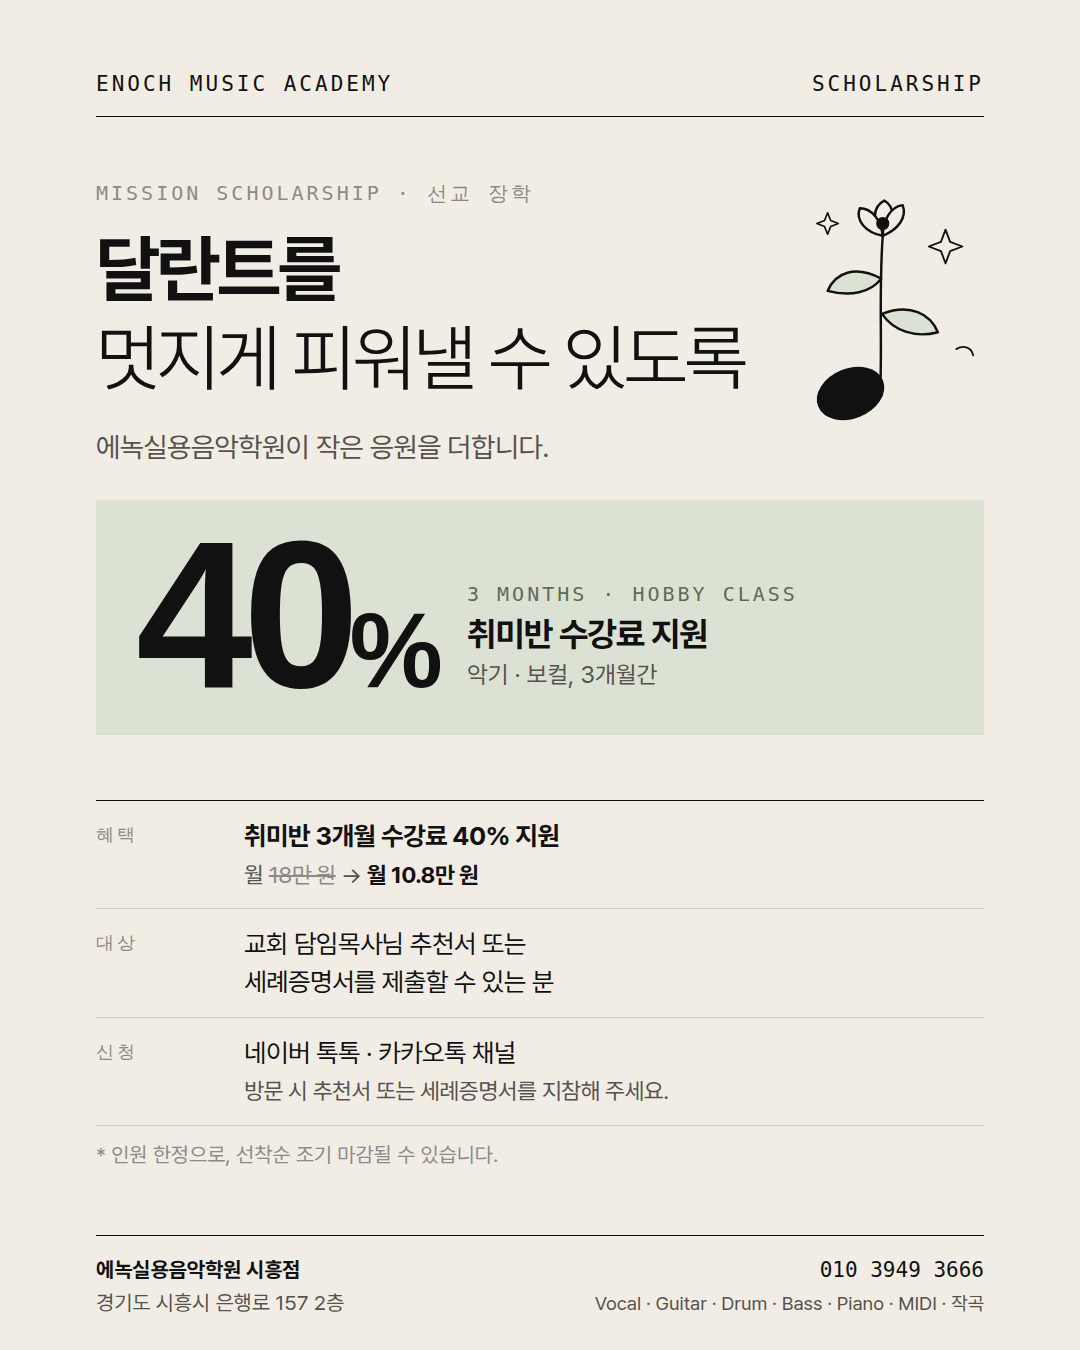
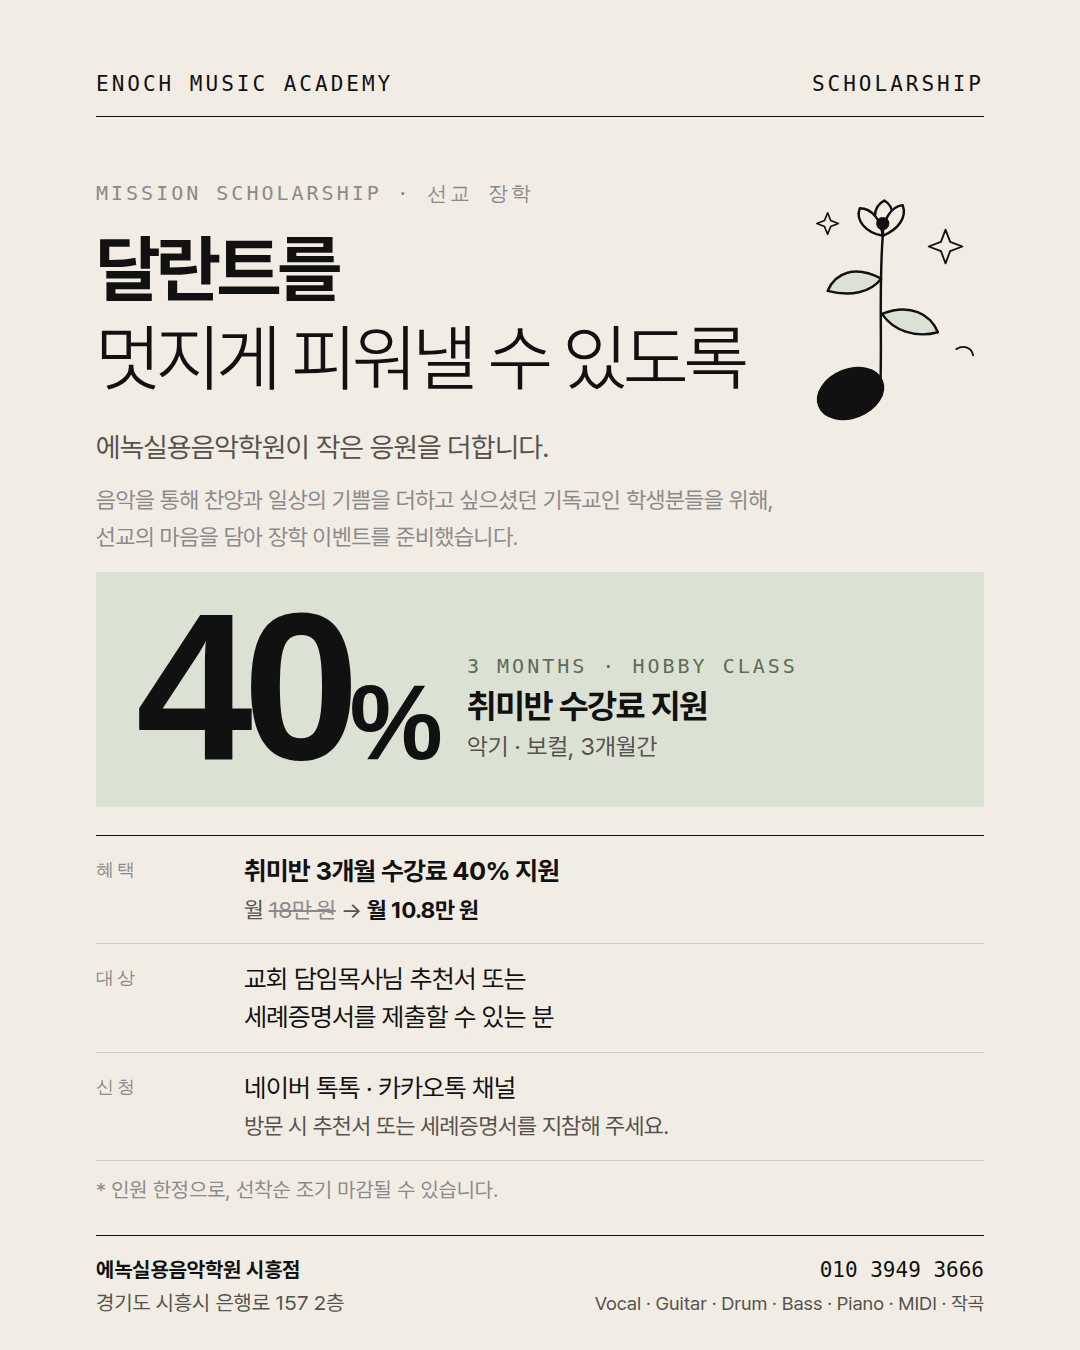
선교 장학 포스터: 선교 취지 문장 추가 (카카오톡·피드·스토리)
Claude-Session: https://claude.ai/code/session_01HGbZvgMeYrbU7mY8bwfjyb

diff --git a/output/이벤트_선교장학/poster.html b/output/이벤트_선교장학/poster.html
@@ -16,6 +16,7 @@
 <div class="a k" style="top:180px">Mission Scholarship · 선교 장학</div>
 <div class="a" style="top:225px;font-size:74px;font-weight:700;letter-spacing:-3.4px;line-height:1.2">달란트를<br><span style="font-weight:300">멋지게 피워낼 수 있도록</span></div>
 <div class="a" style="top:430px;font-size:28px;color:#55524D;letter-spacing:-.5px">에녹실용음악학원이 작은 응원을 더합니다.</div>
+<div class="a" style="top:482px;font-size:23px;line-height:1.6;color:#8A8A8A;letter-spacing:-.4px">음악을 통해 찬양과 일상의 기쁨을 더하고 싶으셨던 기독교인 학생분들을 위해,<br>선교의 마음을 담아 장학 이벤트를 준비했습니다.</div>
 <div style="position:absolute;right:70px;top:150px"><svg width="230" height="291" viewBox="0 0 300 380" fill="none" stroke="#111" stroke-width="3.2" stroke-linecap="round" stroke-linejoin="round">
 <ellipse cx="92" cy="318" rx="44" ry="31" transform="rotate(-22 92 318)" fill="#111"/>
 <path d="M131 306 C 133 240, 129 180, 134 112"/>
@@ -29,11 +30,11 @@
 <path d="M58 92 l4 -10 l4 10 l10 4 l-10 4 l-4 10 l-4 -10 l-10 -4 z" stroke-width="2.2"/>
 <path d="M230 260 c 10 -6 20 -2 22 8" stroke-width="2.4"/>
 </svg></div>
-<div class="a" style="top:500px;display:flex;align-items:flex-end;gap:28px;background:var(--sg);padding:26px 40px 30px;left:96px;right:96px">
+<div class="a" style="top:572px;display:flex;align-items:flex-end;gap:28px;background:var(--sg);padding:26px 40px 30px;left:96px;right:96px">
   <div style="font-family:var(--en);font-weight:700;font-size:210px;letter-spacing:-10px;line-height:.85">40<span style="font-size:105px;letter-spacing:-4px">%</span></div>
   <div style="padding-bottom:16px"><div class="k" style="color:#5E6B55">3 Months · Hobby Class</div><div style="font-size:34px;font-weight:700;letter-spacing:-1px;margin-top:8px">취미반 수강료 지원</div><div style="font-size:24px;color:#55524D;margin-top:6px">악기 · 보컬, 3개월간</div></div>
 </div>
-<div class="a" style="top:800px;border-top:1.5px solid #111"><div class="row"><span class="n">혜택</span><span class="t"><b>취미반 3개월 수강료 40% 지원</b><br><i>월 <s style="color:#8A8A8A">18만 원</s> → <b style="color:#111">월 10.8만 원</b></i></span></div>
+<div class="a" style="top:835px;border-top:1.5px solid #111"><div class="row"><span class="n">혜택</span><span class="t"><b>취미반 3개월 수강료 40% 지원</b><br><i>월 <s style="color:#8A8A8A">18만 원</s> → <b style="color:#111">월 10.8만 원</b></i></span></div>
 <div class="row"><span class="n">대상</span><span class="t">교회 담임목사님 추천서 또는<br>세례증명서를 제출할 수 있는 분</span></div>
 <div class="row"><span class="n">신청</span><span class="t">네이버 톡톡 · 카카오톡 채널<br><i>방문 시 추천서 또는 세례증명서를 지참해 주세요.</i></span></div><div style="padding-top:16px;font-size:21px;color:#8A8A8A">* 인원 한정으로, 선착순 조기 마감될 수 있습니다.</div></div>
 <div class="a" style="top:1235px;padding-top:18px;border-top:1.5px solid #111;display:flex;justify-content:space-between;font-size:21px;line-height:1.55"><span><b>에녹실용음악학원 시흥점</b><br><span style="color:#55524D">경기도 시흥시 은행로 157 2층</span></span><span style="text-align:right;font-family:var(--mono)">010 3949 3666<br><span style="font-family:P,sans-serif;color:#55524D;font-size:19px">Vocal · Guitar · Drum · Bass · Piano · MIDI · 작곡</span></span></div>
@@ -42,6 +43,7 @@
 <div class="a k" style="top:410px">Mission Scholarship · 선교 장학</div>
 <div class="a" style="top:455px;font-size:78px;font-weight:700;letter-spacing:-3.4px;line-height:1.2">달란트를<br><span style="font-weight:300">멋지게 피워낼 수 있도록</span></div>
 <div class="a" style="top:700px;font-size:28px;color:#55524D;letter-spacing:-.5px">에녹실용음악학원이 작은 응원을 더합니다.</div>
+<div class="a" style="top:758px;font-size:25px;line-height:1.6;color:#8A8A8A;letter-spacing:-.4px">음악을 통해 찬양과 일상의 기쁨을 더하고 싶으셨던 기독교인 학생분들을 위해,<br>선교의 마음을 담아 장학 이벤트를 준비했습니다.</div>
 <div style="position:absolute;right:60px;top:400px"><svg width="260" height="329" viewBox="0 0 300 380" fill="none" stroke="#111" stroke-width="3.2" stroke-linecap="round" stroke-linejoin="round">
 <ellipse cx="92" cy="318" rx="44" ry="31" transform="rotate(-22 92 318)" fill="#111"/>
 <path d="M131 306 C 133 240, 129 180, 134 112"/>
@@ -55,11 +57,11 @@
 <path d="M58 92 l4 -10 l4 10 l10 4 l-10 4 l-4 10 l-4 -10 l-10 -4 z" stroke-width="2.2"/>
 <path d="M230 260 c 10 -6 20 -2 22 8" stroke-width="2.4"/>
 </svg></div>
-<div class="a" style="top:810px;display:flex;align-items:flex-end;gap:28px;background:var(--sg);padding:26px 40px 30px;left:96px;right:96px">
+<div class="a" style="top:870px;display:flex;align-items:flex-end;gap:28px;background:var(--sg);padding:26px 40px 30px;left:96px;right:96px">
   <div style="font-family:var(--en);font-weight:700;font-size:250px;letter-spacing:-10px;line-height:.85">40<span style="font-size:125px;letter-spacing:-4px">%</span></div>
   <div style="padding-bottom:16px"><div class="k" style="color:#5E6B55">3 Months · Hobby Class</div><div style="font-size:34px;font-weight:700;letter-spacing:-1px;margin-top:8px">취미반 수강료 지원</div><div style="font-size:24px;color:#55524D;margin-top:6px">악기 · 보컬, 3개월간</div></div>
 </div>
-<div class="a" style="top:1170px;border-top:1.5px solid #111"><div class="row"><span class="n">혜택</span><span class="t"><b>취미반 3개월 수강료 40% 지원</b><br><i>월 <s style="color:#8A8A8A">18만 원</s> → <b style="color:#111">월 10.8만 원</b></i></span></div>
+<div class="a" style="top:1190px;border-top:1.5px solid #111"><div class="row"><span class="n">혜택</span><span class="t"><b>취미반 3개월 수강료 40% 지원</b><br><i>월 <s style="color:#8A8A8A">18만 원</s> → <b style="color:#111">월 10.8만 원</b></i></span></div>
 <div class="row"><span class="n">대상</span><span class="t">교회 담임목사님 추천서 또는<br>세례증명서를 제출할 수 있는 분</span></div>
 <div class="row"><span class="n">신청</span><span class="t">네이버 톡톡 · 카카오톡 채널<br><i>방문 시 추천서 또는 세례증명서를 지참해 주세요.</i></span></div><div style="padding-top:16px;font-size:21px;color:#8A8A8A">* 인원 한정으로, 선착순 조기 마감될 수 있습니다.</div></div>
 <div class="a" style="top:1630px;padding-top:18px;border-top:1.5px solid #111;display:flex;justify-content:space-between;font-size:21px;line-height:1.55"><span><b>에녹실용음악학원 시흥점</b><br><span style="color:#55524D">경기도 시흥시 은행로 157 2층</span></span><span style="text-align:right;font-family:var(--mono)">010 3949 3666<br><span style="font-family:P,sans-serif;color:#55524D;font-size:19px">Vocal · Guitar · Drum · Bass · Piano · MIDI · 작곡</span></span></div>
@@ -67,7 +69,8 @@
 <div class="hd" style="top:56px;left:80px;right:80px;font-size:19px"><span>ENOCH MUSIC ACADEMY</span><span>SCHOLARSHIP</span></div>
 <div class="a k" style="top:140px;left:80px;font-size:18px">Mission Scholarship · 선교 장학</div>
 <div class="a" style="top:178px;left:80px;font-size:64px;font-weight:700;letter-spacing:-3px;line-height:1.2">달란트를<br><span style="font-weight:300">멋지게 피워낼 수 있도록</span></div>
-<div class="a" style="top:348px;left:80px;font-size:25px;color:#55524D">에녹실용음악학원이 작은 응원을 더합니다.</div>
+<div class="a" style="top:346px;left:80px;font-size:25px;color:#55524D">에녹실용음악학원이 작은 응원을 더합니다.</div>
+<div class="a" style="top:390px;left:80px;font-size:21px;line-height:1.55;color:#8A8A8A;letter-spacing:-.3px">음악을 통해 찬양과 일상의 기쁨을 더하고 싶으셨던 기독교인 학생분들을 위해,<br>선교의 마음을 담아 장학 이벤트를 준비했습니다.</div>
 <div style="position:absolute;right:70px;top:110px"><svg width="190" height="241" viewBox="0 0 300 380" fill="none" stroke="#111" stroke-width="3.2" stroke-linecap="round" stroke-linejoin="round">
 <ellipse cx="92" cy="318" rx="44" ry="31" transform="rotate(-22 92 318)" fill="#111"/>
 <path d="M131 306 C 133 240, 129 180, 134 112"/>
@@ -81,12 +84,12 @@
 <path d="M58 92 l4 -10 l4 10 l10 4 l-10 4 l-4 10 l-4 -10 l-10 -4 z" stroke-width="2.2"/>
 <path d="M230 260 c 10 -6 20 -2 22 8" stroke-width="2.4"/>
 </svg></div>
-<div class="a" style="top:410px;left:80px;right:80px;display:flex;align-items:flex-end;gap:26px;background:var(--sg);padding:22px 36px 26px">
-  <div style="font-family:var(--en);font-weight:700;font-size:170px;letter-spacing:-8px;line-height:.85">40<span style="font-size:85px;letter-spacing:-3px">%</span></div>
+<div class="a" style="top:480px;left:80px;right:80px;display:flex;align-items:flex-end;gap:26px;background:var(--sg);padding:20px 36px 22px">
+  <div style="font-family:var(--en);font-weight:700;font-size:150px;letter-spacing:-7px;line-height:.85">40<span style="font-size:75px;letter-spacing:-3px">%</span></div>
   <div style="padding-bottom:12px"><div class="k" style="color:#5E6B55;font-size:18px">3 Months · Hobby Class</div><div style="font-size:32px;font-weight:700;letter-spacing:-1px;margin-top:6px">취미반 수강료 지원</div><div style="font-size:22px;color:#55524D;margin-top:4px">악기 · 보컬, 3개월간</div></div>
 </div>
-<div class="a" style="top:648px;left:80px;right:80px;border-top:1.5px solid #111"><div class="row" style="padding:13px 0"><span class="n">혜택</span><span class="t" style="font-size:24px"><b>취미반 3개월 수강료 40% 지원</b> &nbsp;<i>월 <s style="color:#8A8A8A">18만 원</s> → <b style="color:#111">월 10.8만 원</b></i></span></div>
-<div class="row" style="padding:13px 0"><span class="n">대상</span><span class="t" style="font-size:24px">교회 담임목사님 추천서 또는 세례증명서를 제출할 수 있는 분</span></div>
-<div class="row" style="padding:13px 0"><span class="n">신청</span><span class="t" style="font-size:24px">네이버 톡톡 · 카카오톡 채널 <i>· 방문 시 추천서 또는 세례증명서 지참</i></span></div><div style="padding-top:12px;font-size:19px;color:#8A8A8A">* 인원 한정으로, 선착순 조기 마감될 수 있습니다.</div></div>
+<div class="a" style="top:695px;left:80px;right:80px;border-top:1.5px solid #111"><div class="row" style="padding:11px 0"><span class="n">혜택</span><span class="t" style="font-size:24px"><b>취미반 3개월 수강료 40% 지원</b> &nbsp;<i>월 <s style="color:#8A8A8A">18만 원</s> → <b style="color:#111">월 10.8만 원</b></i></span></div>
+<div class="row" style="padding:11px 0"><span class="n">대상</span><span class="t" style="font-size:24px">교회 담임목사님 추천서 또는 세례증명서를 제출할 수 있는 분</span></div>
+<div class="row" style="padding:11px 0"><span class="n">신청</span><span class="t" style="font-size:24px">네이버 톡톡 · 카카오톡 채널 <i>· 방문 시 추천서 또는 세례증명서 지참</i></span></div><div style="padding-top:12px;font-size:19px;color:#8A8A8A">* 인원 한정으로, 선착순 조기 마감될 수 있습니다.</div></div>
 <div class="a" style="top:965px;left:80px;right:80px;padding-top:16px;border-top:1.5px solid #111;display:flex;justify-content:space-between;font-size:20px;line-height:1.5"><span><b>에녹실용음악학원 시흥점</b><br><span style="color:#55524D">경기도 시흥시 은행로 157 2층</span></span><span style="text-align:right;font-family:var(--mono)">010 3949 3666<br><span style="font-family:P,sans-serif;color:#55524D;font-size:18px">Vocal · Guitar · Drum · Bass · Piano · MIDI · 작곡</span></span></div>
 </section></body></html>

diff --git a/output/이벤트_선교장학/gen.py b/output/이벤트_선교장학/gen.py
@@ -43,31 +43,33 @@ def body(kind):
 <div class="a k" style="top:{180+o}px">Mission Scholarship · 선교 장학</div>
 <div class="a" style="top:{225+o}px;font-size:{74 if kind=='feed' else 78}px;font-weight:700;letter-spacing:-3.4px;line-height:1.2">달란트를<br><span style="font-weight:300">멋지게 피워낼 수 있도록</span></div>
 <div class="a" style="top:{430+o if kind=='feed' else 470+o}px;font-size:28px;color:#55524D;letter-spacing:-.5px">에녹실용음악학원이 작은 응원을 더합니다.</div>
+<div class="a" style="top:{482+o if kind=='feed' else 528+o}px;font-size:{23 if kind=='feed' else 25}px;line-height:1.6;color:#8A8A8A;letter-spacing:-.4px">음악을 통해 찬양과 일상의 기쁨을 더하고 싶으셨던 기독교인 학생분들을 위해,<br>선교의 마음을 담아 장학 이벤트를 준비했습니다.</div>
 <div style="position:absolute;right:{70 if kind=='feed' else 60}px;top:{150+o if kind=='feed' else 170+o}px">{d}</div>
-<div class="a" style="top:{500+o if kind=='feed' else 580+o}px;display:flex;align-items:flex-end;gap:28px;background:var(--sg);padding:26px 40px 30px;left:96px;right:96px">
+<div class="a" style="top:{572+o if kind=='feed' else 640+o}px;display:flex;align-items:flex-end;gap:28px;background:var(--sg);padding:26px 40px 30px;left:96px;right:96px">
   <div style="font-family:var(--en);font-weight:700;font-size:{big}px;letter-spacing:-10px;line-height:.85">40<span style="font-size:{big//2}px;letter-spacing:-4px">%</span></div>
   <div style="padding-bottom:16px"><div class="k" style="color:#5E6B55">3 Months · Hobby Class</div><div style="font-size:34px;font-weight:700;letter-spacing:-1px;margin-top:8px">취미반 수강료 지원</div><div style="font-size:24px;color:#55524D;margin-top:6px">악기 · 보컬, 3개월간</div></div>
 </div>
-<div class="a" style="top:{800+o if kind=='feed' else 940+o}px;border-top:1.5px solid #111">{rows}<div style="padding-top:16px;font-size:21px;color:#8A8A8A">* 인원 한정으로, 선착순 조기 마감될 수 있습니다.</div></div>
+<div class="a" style="top:{835+o if kind=='feed' else 960+o}px;border-top:1.5px solid #111">{rows}<div style="padding-top:16px;font-size:21px;color:#8A8A8A">* 인원 한정으로, 선착순 조기 마감될 수 있습니다.</div></div>
 <div class="a" style="top:{1235+o if kind=='feed' else 1400+o}px;padding-top:18px;border-top:1.5px solid #111;display:flex;justify-content:space-between;font-size:21px;line-height:1.55"><span><b>에녹실용음악학원 시흥점</b><br><span style="color:#55524D">경기도 시흥시 은행로 157 2층</span></span><span style="text-align:right;font-family:var(--mono)">010 3949 3666<br><span style="font-family:P,sans-serif;color:#55524D;font-size:19px">Vocal · Guitar · Drum · Bass · Piano · MIDI · 작곡</span></span></div>
 </section>'''
 
 def kakao():
     d = DOODLE.format(w=190, h=241)
-    rows='''<div class="row" style="padding:13px 0"><span class="n">혜택</span><span class="t" style="font-size:24px"><b>취미반 3개월 수강료 40% 지원</b> &nbsp;<i>월 <s style="color:#8A8A8A">18만 원</s> → <b style="color:#111">월 10.8만 원</b></i></span></div>
-<div class="row" style="padding:13px 0"><span class="n">대상</span><span class="t" style="font-size:24px">교회 담임목사님 추천서 또는 세례증명서를 제출할 수 있는 분</span></div>
-<div class="row" style="padding:13px 0"><span class="n">신청</span><span class="t" style="font-size:24px">네이버 톡톡 · 카카오톡 채널 <i>· 방문 시 추천서 또는 세례증명서 지참</i></span></div>'''
+    rows='''<div class="row" style="padding:11px 0"><span class="n">혜택</span><span class="t" style="font-size:24px"><b>취미반 3개월 수강료 40% 지원</b> &nbsp;<i>월 <s style="color:#8A8A8A">18만 원</s> → <b style="color:#111">월 10.8만 원</b></i></span></div>
+<div class="row" style="padding:11px 0"><span class="n">대상</span><span class="t" style="font-size:24px">교회 담임목사님 추천서 또는 세례증명서를 제출할 수 있는 분</span></div>
+<div class="row" style="padding:11px 0"><span class="n">신청</span><span class="t" style="font-size:24px">네이버 톡톡 · 카카오톡 채널 <i>· 방문 시 추천서 또는 세례증명서 지참</i></span></div>'''
     return f'''<section class="s" id="kakao" style="height:1080px">
 <div class="hd" style="top:56px;left:80px;right:80px;font-size:19px"><span>ENOCH MUSIC ACADEMY</span><span>SCHOLARSHIP</span></div>
 <div class="a k" style="top:140px;left:80px;font-size:18px">Mission Scholarship · 선교 장학</div>
 <div class="a" style="top:178px;left:80px;font-size:64px;font-weight:700;letter-spacing:-3px;line-height:1.2">달란트를<br><span style="font-weight:300">멋지게 피워낼 수 있도록</span></div>
-<div class="a" style="top:348px;left:80px;font-size:25px;color:#55524D">에녹실용음악학원이 작은 응원을 더합니다.</div>
+<div class="a" style="top:346px;left:80px;font-size:25px;color:#55524D">에녹실용음악학원이 작은 응원을 더합니다.</div>
+<div class="a" style="top:390px;left:80px;font-size:21px;line-height:1.55;color:#8A8A8A;letter-spacing:-.3px">음악을 통해 찬양과 일상의 기쁨을 더하고 싶으셨던 기독교인 학생분들을 위해,<br>선교의 마음을 담아 장학 이벤트를 준비했습니다.</div>
 <div style="position:absolute;right:70px;top:110px">{d}</div>
-<div class="a" style="top:410px;left:80px;right:80px;display:flex;align-items:flex-end;gap:26px;background:var(--sg);padding:22px 36px 26px">
-  <div style="font-family:var(--en);font-weight:700;font-size:170px;letter-spacing:-8px;line-height:.85">40<span style="font-size:85px;letter-spacing:-3px">%</span></div>
+<div class="a" style="top:480px;left:80px;right:80px;display:flex;align-items:flex-end;gap:26px;background:var(--sg);padding:20px 36px 22px">
+  <div style="font-family:var(--en);font-weight:700;font-size:150px;letter-spacing:-7px;line-height:.85">40<span style="font-size:75px;letter-spacing:-3px">%</span></div>
   <div style="padding-bottom:12px"><div class="k" style="color:#5E6B55;font-size:18px">3 Months · Hobby Class</div><div style="font-size:32px;font-weight:700;letter-spacing:-1px;margin-top:6px">취미반 수강료 지원</div><div style="font-size:22px;color:#55524D;margin-top:4px">악기 · 보컬, 3개월간</div></div>
 </div>
-<div class="a" style="top:648px;left:80px;right:80px;border-top:1.5px solid #111">{rows}<div style="padding-top:12px;font-size:19px;color:#8A8A8A">* 인원 한정으로, 선착순 조기 마감될 수 있습니다.</div></div>
+<div class="a" style="top:695px;left:80px;right:80px;border-top:1.5px solid #111">{rows}<div style="padding-top:12px;font-size:19px;color:#8A8A8A">* 인원 한정으로, 선착순 조기 마감될 수 있습니다.</div></div>
 <div class="a" style="top:965px;left:80px;right:80px;padding-top:16px;border-top:1.5px solid #111;display:flex;justify-content:space-between;font-size:20px;line-height:1.5"><span><b>에녹실용음악학원 시흥점</b><br><span style="color:#55524D">경기도 시흥시 은행로 157 2층</span></span><span style="text-align:right;font-family:var(--mono)">010 3949 3666<br><span style="font-family:P,sans-serif;color:#55524D;font-size:18px">Vocal · Guitar · Drum · Bass · Piano · MIDI · 작곡</span></span></div>
 </section>'''
 open('poster.html','w').write(f'<!doctype html><html lang="ko"><head><meta charset="utf-8"><title>선교 장학 포스터</title><style>{FONT}{CSS}</style></head><body>{body("feed")}{body("story")}{kakao()}</body></html>')
